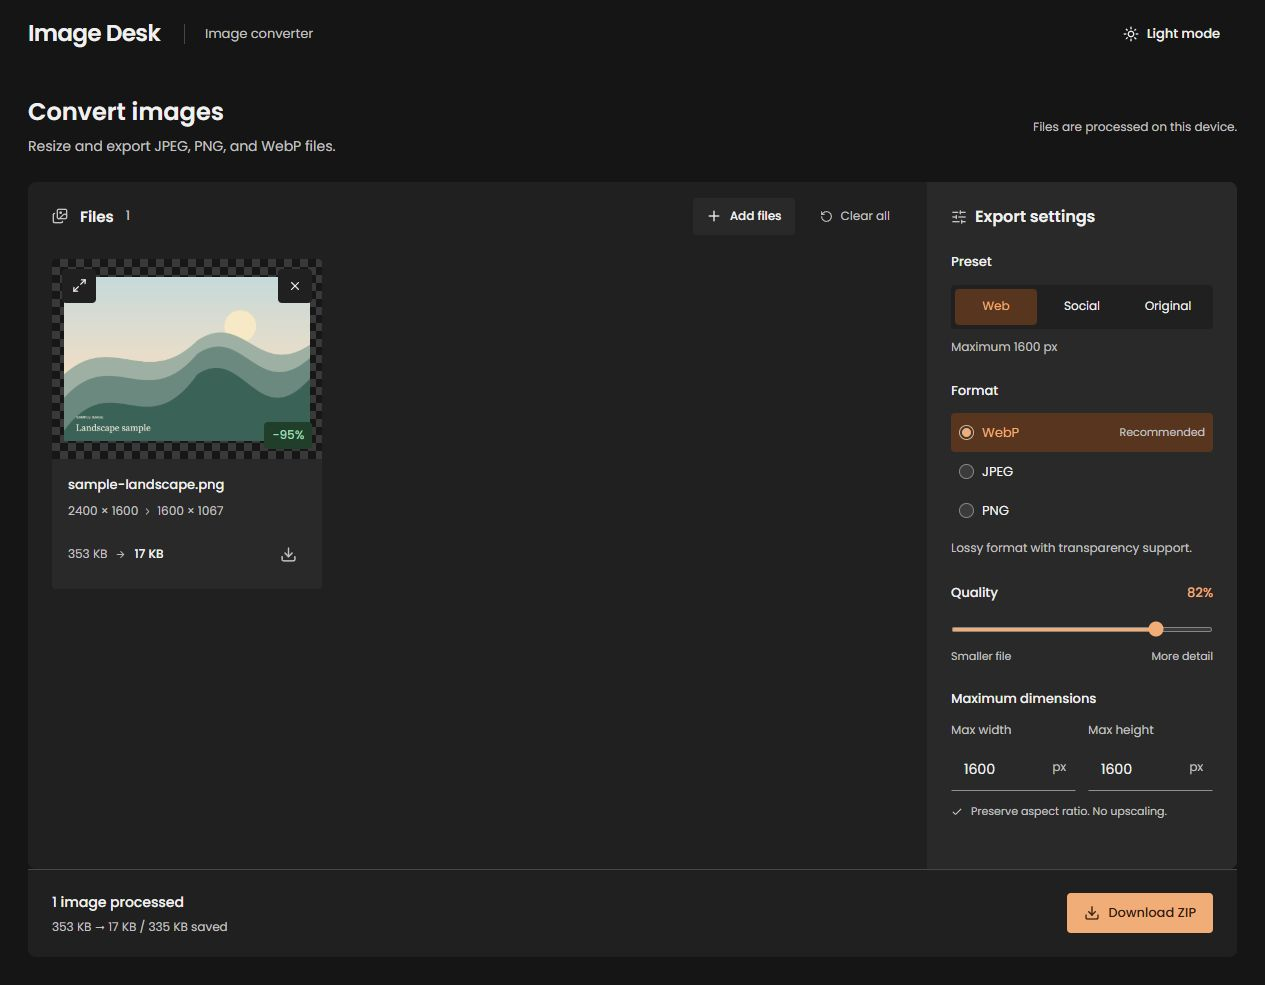
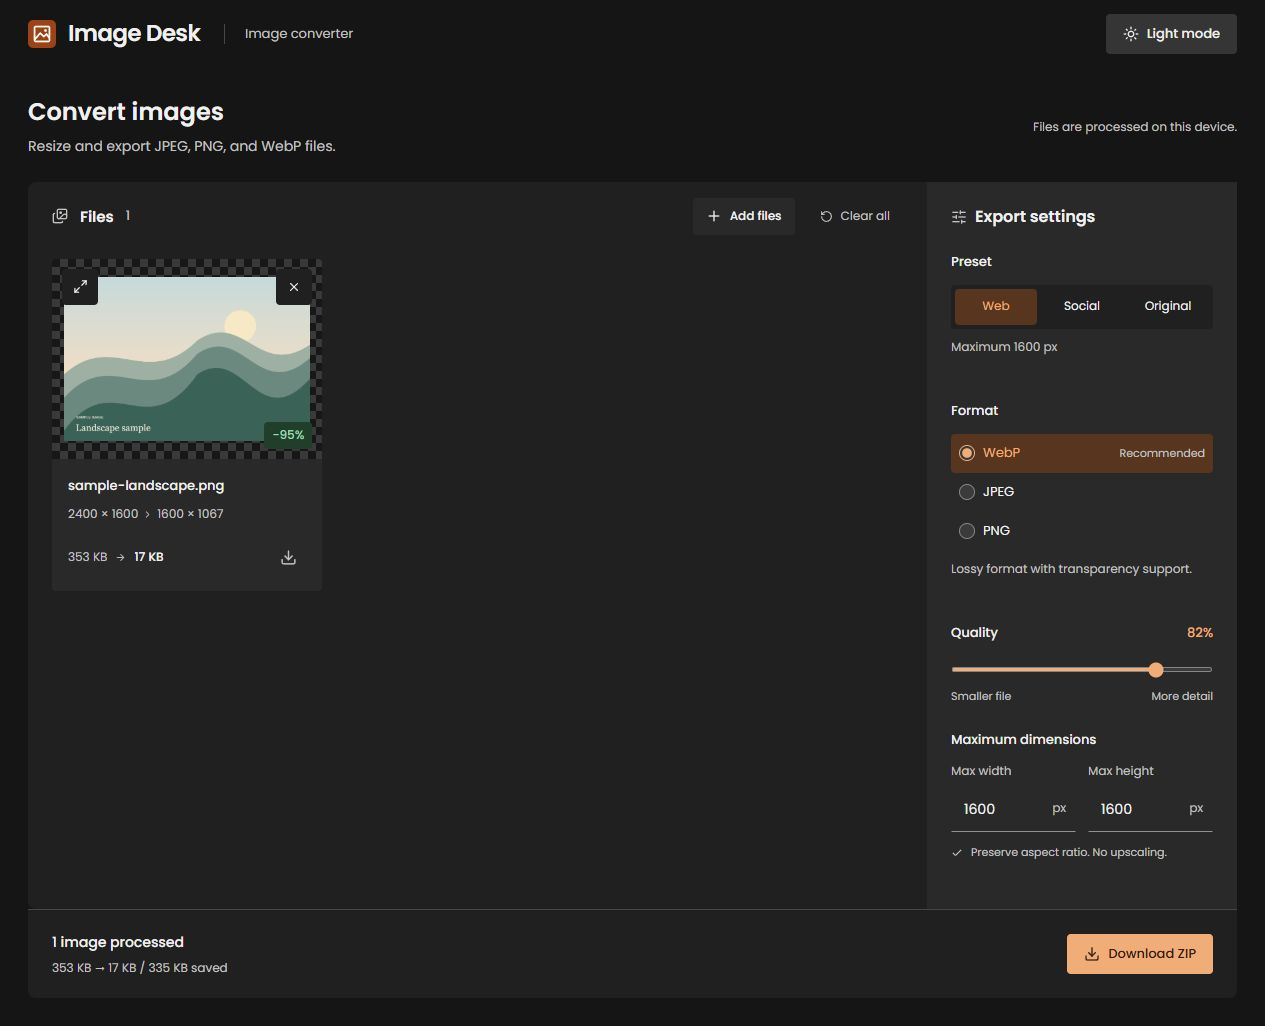
Polish README branding and theme-aware screenshots

diff --git a/README.md b/README.md
@@ -1,10 +1,24 @@
-# Image Desk
+<h1>
+  <picture>
+    <source media="(prefers-color-scheme: dark)" srcset="docs/logo-dark.svg">
+    <img src="docs/logo.svg" alt="Image Desk" width="280" height="72">
+  </picture>
+</h1>
 
 Resize and convert images directly in the browser. Choose a format, set dimensions and quality, then download the results.
 
 [Open Image Desk](https://jpndmatos.github.io/image-desk/)
 
-![Image Desk](docs/desktop.jpg)
+<picture>
+  <source media="(prefers-color-scheme: dark)" srcset="docs/dark.jpg">
+  <img src="docs/desktop.jpg" alt="Image Desk desktop interface" width="1200">
+</picture>
+
+<details>
+  <summary>Mobile view</summary>
+  <br>
+  <img src="docs/mobile.jpg" alt="Image Desk mobile interface" width="320">
+</details>
 
 ## Features
 
@@ -37,4 +51,4 @@ npm run build
 npm run preview
 ```
 
-Built by [João Matos](https://github.com/jpndmatos). MIT license.
+Built by [João Matos](https://github.com/jpndmatos). [MIT license](LICENSE).
